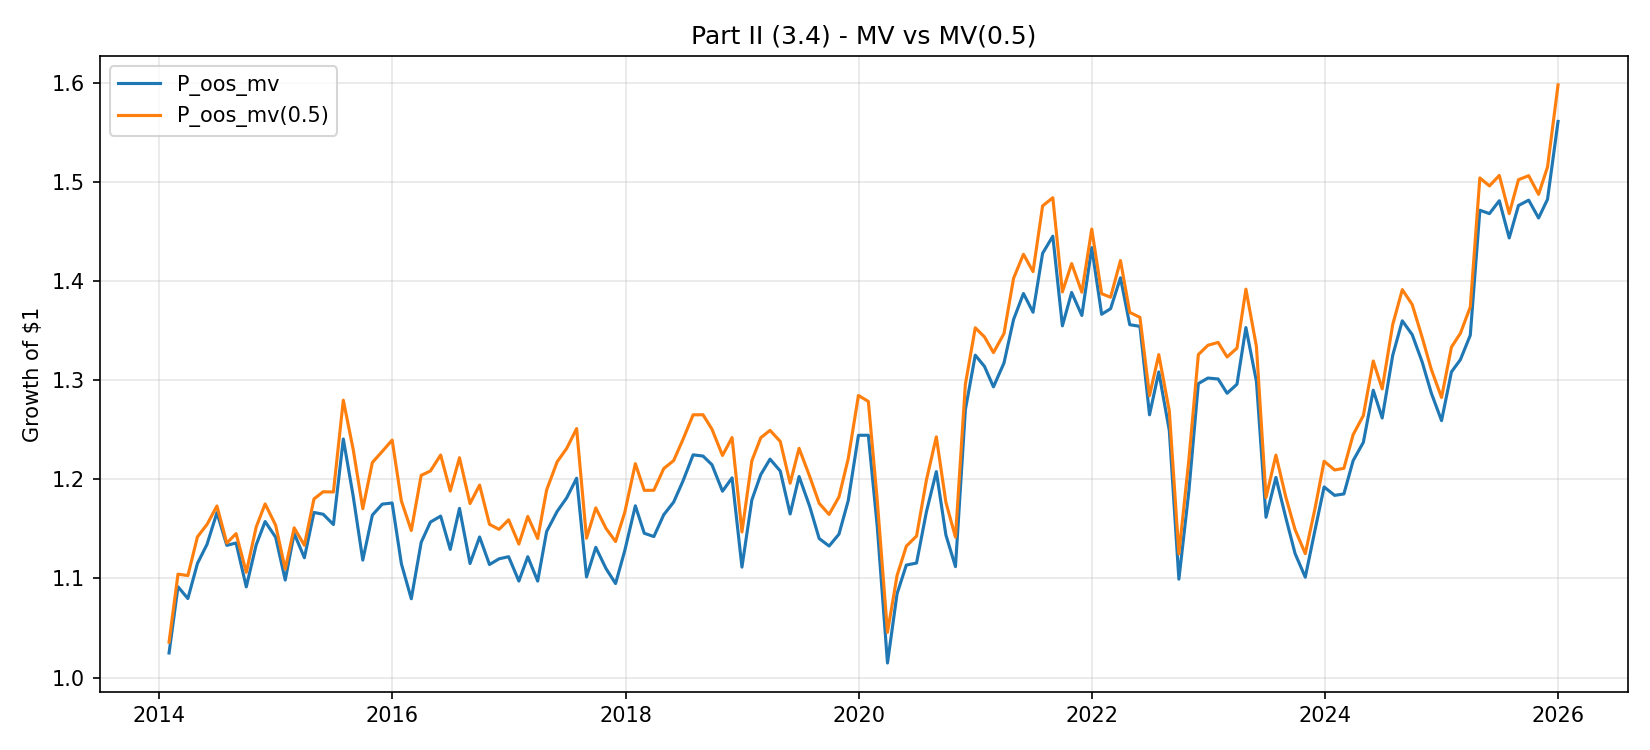
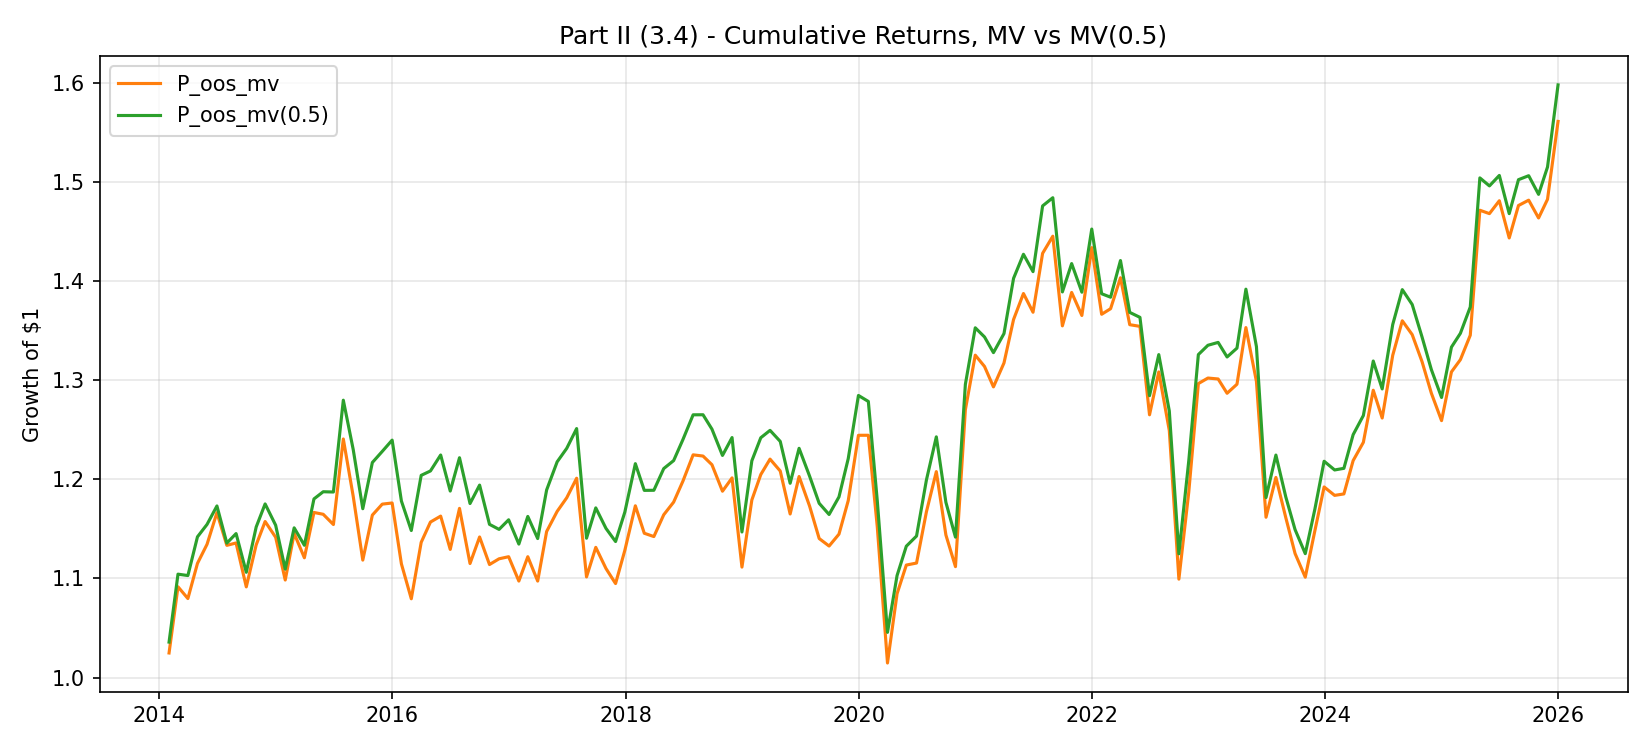
Improve Part II plots and clean repo
- Split carbon footprint into MV-family vs VW-family plots so the 50% reduction and Net Zero trajectories are clearly visible.
- Replace single combined cumulative-returns chart with a side-by-side MV vs VW family figure plus dedicated MV/VW comparison plots.
- Add cumulative excess-return chart vs VW to highlight the small financial cost of decarbonization under tracking-error minimization.
- Add .gitignore and untrack .pycache/, .DS_Store, and Excel lock files.

diff --git a/portfolio_part2.py b/portfolio_part2.py
@@ -394,68 +394,108 @@ def run_part2(config: Part2Config) -> None:
         import matplotlib.pyplot as plt
 
         cum = (1.0 + monthly_returns).cumprod()
-        fig, ax = plt.subplots(figsize=(11, 5))
-        ax.plot(cum.index, cum["R_vw"], label="VW")
-        ax.plot(cum.index, cum["R_mv"], label="MV")
-        ax.plot(cum.index, cum["R_mv_cf50"], label="MV with CF <= 50% MV")
-        ax.plot(cum.index, cum["R_vw_cf50"], label="VW tracking-error with CF <= 50% VW")
-        ax.plot(cum.index, cum["R_vw_nz"], label="VW net-zero")
-        ax.set_title("Part II - Cumulative Returns (2014-2025)")
-        ax.set_ylabel("Growth of $1")
-        ax.grid(True, alpha=0.3)
-        ax.legend()
-        fig.tight_layout()
-        fig.savefig(config.output_dir / "part2_cumulative_returns.png", dpi=150)
-        plt.close(fig)
-
         waci_cf_df = pd.DataFrame(waci_cf_rows)
-        fig2, ax2 = plt.subplots(figsize=(11, 5))
-        ax2.plot(waci_cf_df["year"], waci_cf_df["CF_vw"], label="CF VW")
-        ax2.plot(waci_cf_df["year"], waci_cf_df["CF_mv"], label="CF MV")
-        ax2.plot(waci_cf_df["year"], waci_cf_df["CF_mv_cf50"], label="CF MV CF50")
-        ax2.plot(waci_cf_df["year"], waci_cf_df["CF_vw_nz"], label="CF VW NZ")
-        ax2.set_title("Part II - Carbon Footprint by Year")
-        ax2.set_xlabel("Rebalancing year (Y)")
-        ax2.grid(True, alpha=0.3)
-        ax2.legend()
-        fig2.tight_layout()
-        fig2.savefig(config.output_dir / "part2_carbon_footprint_by_year.png", dpi=150)
-        plt.close(fig2)
 
-        # Section 3.4 comparisons
-        fig3, ax3 = plt.subplots(figsize=(11, 5))
-        ax3.plot(cum.index, cum["R_mv"], label="P_oos_mv")
-        ax3.plot(cum.index, cum["R_mv_cf50"], label="P_oos_mv(0.5)")
-        ax3.set_title("Part II (3.4) - MV vs MV(0.5)")
-        ax3.set_ylabel("Growth of $1")
-        ax3.grid(True, alpha=0.3)
-        ax3.legend()
-        fig3.tight_layout()
-        fig3.savefig(config.output_dir / "part2_compare_mv_vs_mv_cf50.png", dpi=150)
-        plt.close(fig3)
+        # Carbon footprint - MV family (own scale to avoid hiding spikes).
+        fig_cf_mv, ax_cf_mv = plt.subplots(figsize=(11, 5))
+        ax_cf_mv.plot(waci_cf_df["year"], waci_cf_df["CF_mv"], label="CF P_oos_mv", color="tab:orange")
+        ax_cf_mv.plot(
+            waci_cf_df["year"], waci_cf_df["CF_mv_cf50"], label="CF P_oos_mv(0.5)", color="tab:green"
+        )
+        ax_cf_mv.set_title("Part II (3.1-3.2) - Carbon Footprint, MV family")
+        ax_cf_mv.set_xlabel("Rebalancing year (Y)")
+        ax_cf_mv.set_ylabel("Carbon Footprint (tCO2e per $M invested)")
+        ax_cf_mv.grid(True, alpha=0.3)
+        ax_cf_mv.legend()
+        fig_cf_mv.tight_layout()
+        fig_cf_mv.savefig(config.output_dir / "part2_carbon_footprint_mv_family.png", dpi=150)
+        plt.close(fig_cf_mv)
 
-        fig4, ax4 = plt.subplots(figsize=(11, 5))
-        ax4.plot(cum.index, cum["R_vw"], label="P_oos_vw")
-        ax4.plot(cum.index, cum["R_vw_cf50"], label="P_oos_vw(0.5)")
-        ax4.set_title("Part II (3.4) - VW vs VW(0.5)")
-        ax4.set_ylabel("Growth of $1")
-        ax4.grid(True, alpha=0.3)
-        ax4.legend()
-        fig4.tight_layout()
-        fig4.savefig(config.output_dir / "part2_compare_vw_vs_vw_cf50.png", dpi=150)
-        plt.close(fig4)
+        # Carbon footprint - VW family.
+        fig_cf_vw, ax_cf_vw = plt.subplots(figsize=(11, 5))
+        ax_cf_vw.plot(waci_cf_df["year"], waci_cf_df["CF_vw"], label="CF P_oos_vw", color="tab:blue")
+        ax_cf_vw.plot(
+            waci_cf_df["year"], waci_cf_df["CF_vw_cf50"], label="CF P_oos_vw(0.5)", color="tab:cyan"
+        )
+        ax_cf_vw.plot(
+            waci_cf_df["year"], waci_cf_df["CF_vw_nz"], label="CF P_oos_vw(NZ)", color="tab:red"
+        )
+        ax_cf_vw.set_title("Part II (3.3-4.1) - Carbon Footprint, VW family")
+        ax_cf_vw.set_xlabel("Rebalancing year (Y)")
+        ax_cf_vw.set_ylabel("Carbon Footprint (tCO2e per $M invested)")
+        ax_cf_vw.grid(True, alpha=0.3)
+        ax_cf_vw.legend()
+        fig_cf_vw.tight_layout()
+        fig_cf_vw.savefig(config.output_dir / "part2_carbon_footprint_vw_family.png", dpi=150)
+        plt.close(fig_cf_vw)
 
-        fig5, ax5 = plt.subplots(figsize=(11, 5))
-        ax5.plot(cum.index, cum["R_vw"], label="P_oos_vw")
-        ax5.plot(cum.index, cum["R_vw_cf50"], label="P_oos_vw(0.5)")
-        ax5.plot(cum.index, cum["R_vw_nz"], label="P_oos_vw(NZ)")
-        ax5.set_title("Part II (4.2) - VW, VW(0.5), VW(NZ)")
-        ax5.set_ylabel("Growth of $1")
-        ax5.grid(True, alpha=0.3)
-        ax5.legend()
-        fig5.tight_layout()
-        fig5.savefig(config.output_dir / "part2_compare_vw_vw_cf50_vw_nz.png", dpi=150)
-        plt.close(fig5)
+        # Cumulative returns - MV family.
+        fig_mv, ax_mv = plt.subplots(figsize=(11, 5))
+        ax_mv.plot(cum.index, cum["R_mv"], label="P_oos_mv", color="tab:orange")
+        ax_mv.plot(cum.index, cum["R_mv_cf50"], label="P_oos_mv(0.5)", color="tab:green")
+        ax_mv.set_title("Part II (3.4) - Cumulative Returns, MV vs MV(0.5)")
+        ax_mv.set_ylabel("Growth of $1")
+        ax_mv.grid(True, alpha=0.3)
+        ax_mv.legend()
+        fig_mv.tight_layout()
+        fig_mv.savefig(config.output_dir / "part2_compare_mv_vs_mv_cf50.png", dpi=150)
+        plt.close(fig_mv)
+
+        # Cumulative returns - VW family (3.4 + 4.2 main comparison).
+        fig_vw, ax_vw = plt.subplots(figsize=(11, 5))
+        ax_vw.plot(cum.index, cum["R_vw"], label="P_oos_vw", color="tab:blue")
+        ax_vw.plot(cum.index, cum["R_vw_cf50"], label="P_oos_vw(0.5)", color="tab:cyan")
+        ax_vw.plot(cum.index, cum["R_vw_nz"], label="P_oos_vw(NZ)", color="tab:red")
+        ax_vw.set_title("Part II (4.2) - Cumulative Returns, VW family")
+        ax_vw.set_ylabel("Growth of $1")
+        ax_vw.grid(True, alpha=0.3)
+        ax_vw.legend()
+        fig_vw.tight_layout()
+        fig_vw.savefig(config.output_dir / "part2_compare_vw_vw_cf50_vw_nz.png", dpi=150)
+        plt.close(fig_vw)
+
+        # Excess return vs VW (highlights small financial cost of decarbonization).
+        excess = pd.DataFrame(
+            {
+                "VW(0.5) - VW": (1.0 + monthly_returns["R_vw_cf50"]).cumprod()
+                / (1.0 + monthly_returns["R_vw"]).cumprod()
+                - 1.0,
+                "VW(NZ) - VW": (1.0 + monthly_returns["R_vw_nz"]).cumprod()
+                / (1.0 + monthly_returns["R_vw"]).cumprod()
+                - 1.0,
+            }
+        )
+        fig_x, ax_x = plt.subplots(figsize=(11, 5))
+        ax_x.plot(excess.index, excess["VW(0.5) - VW"], label="P_oos_vw(0.5) - P_oos_vw", color="tab:cyan")
+        ax_x.plot(excess.index, excess["VW(NZ) - VW"], label="P_oos_vw(NZ) - P_oos_vw", color="tab:red")
+        ax_x.axhline(0.0, color="black", linewidth=0.8, linestyle="--")
+        ax_x.set_title("Part II - Cumulative Excess Performance vs VW")
+        ax_x.set_ylabel("Cumulative excess return")
+        ax_x.grid(True, alpha=0.3)
+        ax_x.legend()
+        fig_x.tight_layout()
+        fig_x.savefig(config.output_dir / "part2_excess_return_vs_vw.png", dpi=150)
+        plt.close(fig_x)
+
+        # All cumulative returns (kept for completeness, separated VW family vs MV family).
+        fig_all, axes = plt.subplots(1, 2, figsize=(14, 5), sharey=True)
+        axes[0].plot(cum.index, cum["R_mv"], label="P_oos_mv", color="tab:orange")
+        axes[0].plot(cum.index, cum["R_mv_cf50"], label="P_oos_mv(0.5)", color="tab:green")
+        axes[0].set_title("MV family")
+        axes[0].set_ylabel("Growth of $1")
+        axes[0].grid(True, alpha=0.3)
+        axes[0].legend()
+
+        axes[1].plot(cum.index, cum["R_vw"], label="P_oos_vw", color="tab:blue")
+        axes[1].plot(cum.index, cum["R_vw_cf50"], label="P_oos_vw(0.5)", color="tab:cyan")
+        axes[1].plot(cum.index, cum["R_vw_nz"], label="P_oos_vw(NZ)", color="tab:red")
+        axes[1].set_title("VW family")
+        axes[1].grid(True, alpha=0.3)
+        axes[1].legend()
+        fig_all.suptitle("Part II - Cumulative Returns by Family (2014-2025)")
+        fig_all.tight_layout()
+        fig_all.savefig(config.output_dir / "part2_cumulative_returns.png", dpi=150)
+        plt.close(fig_all)
     except Exception as exc:
         print(f"Plot skipped due to environment error: {exc}")
 